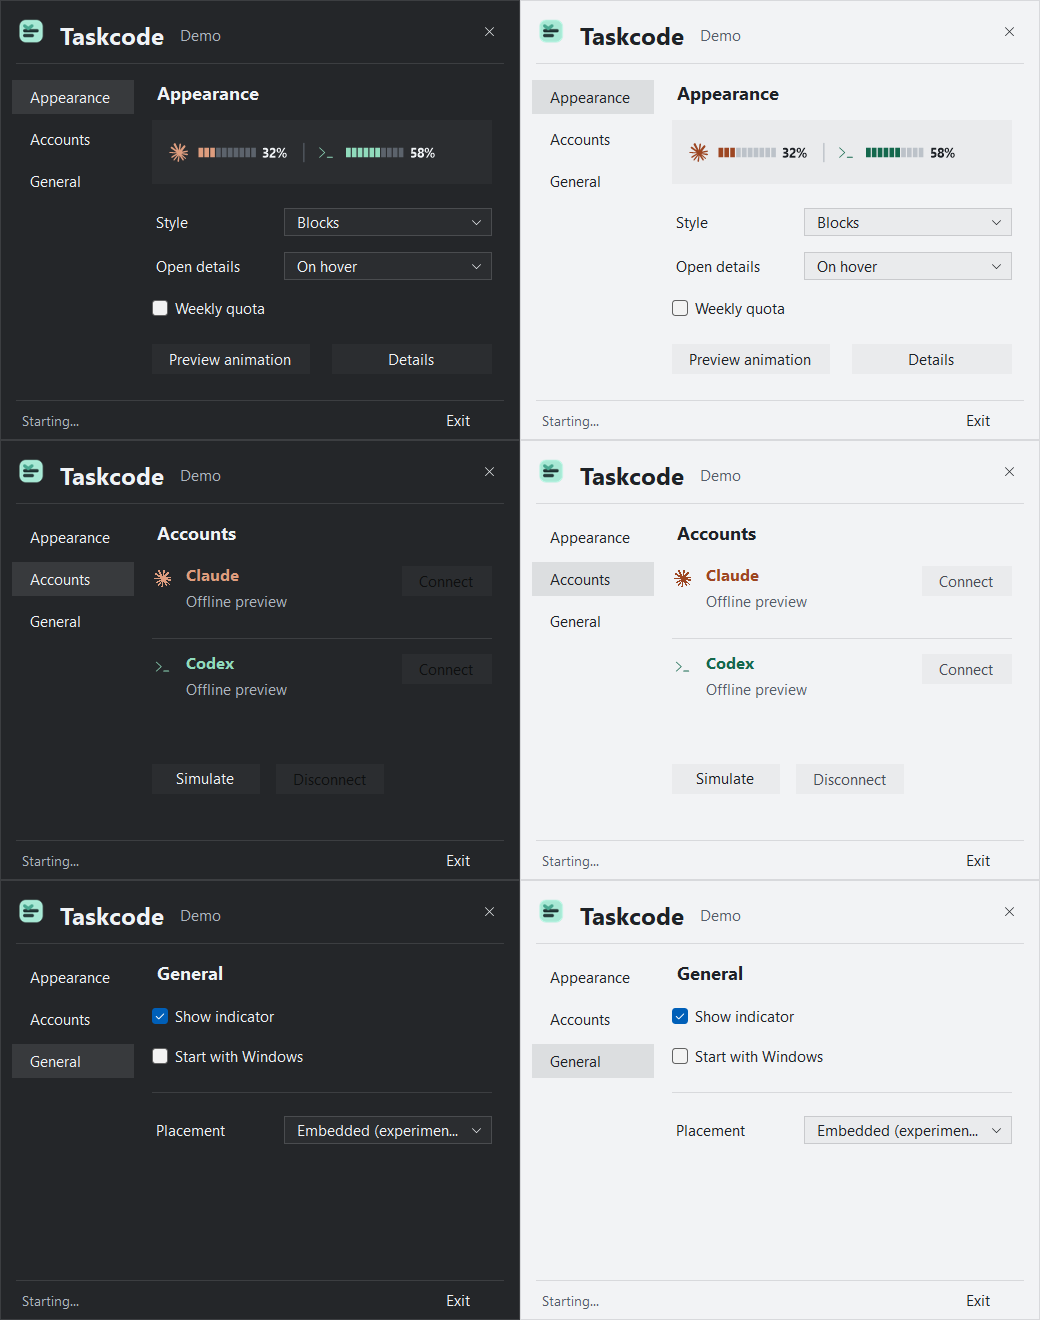
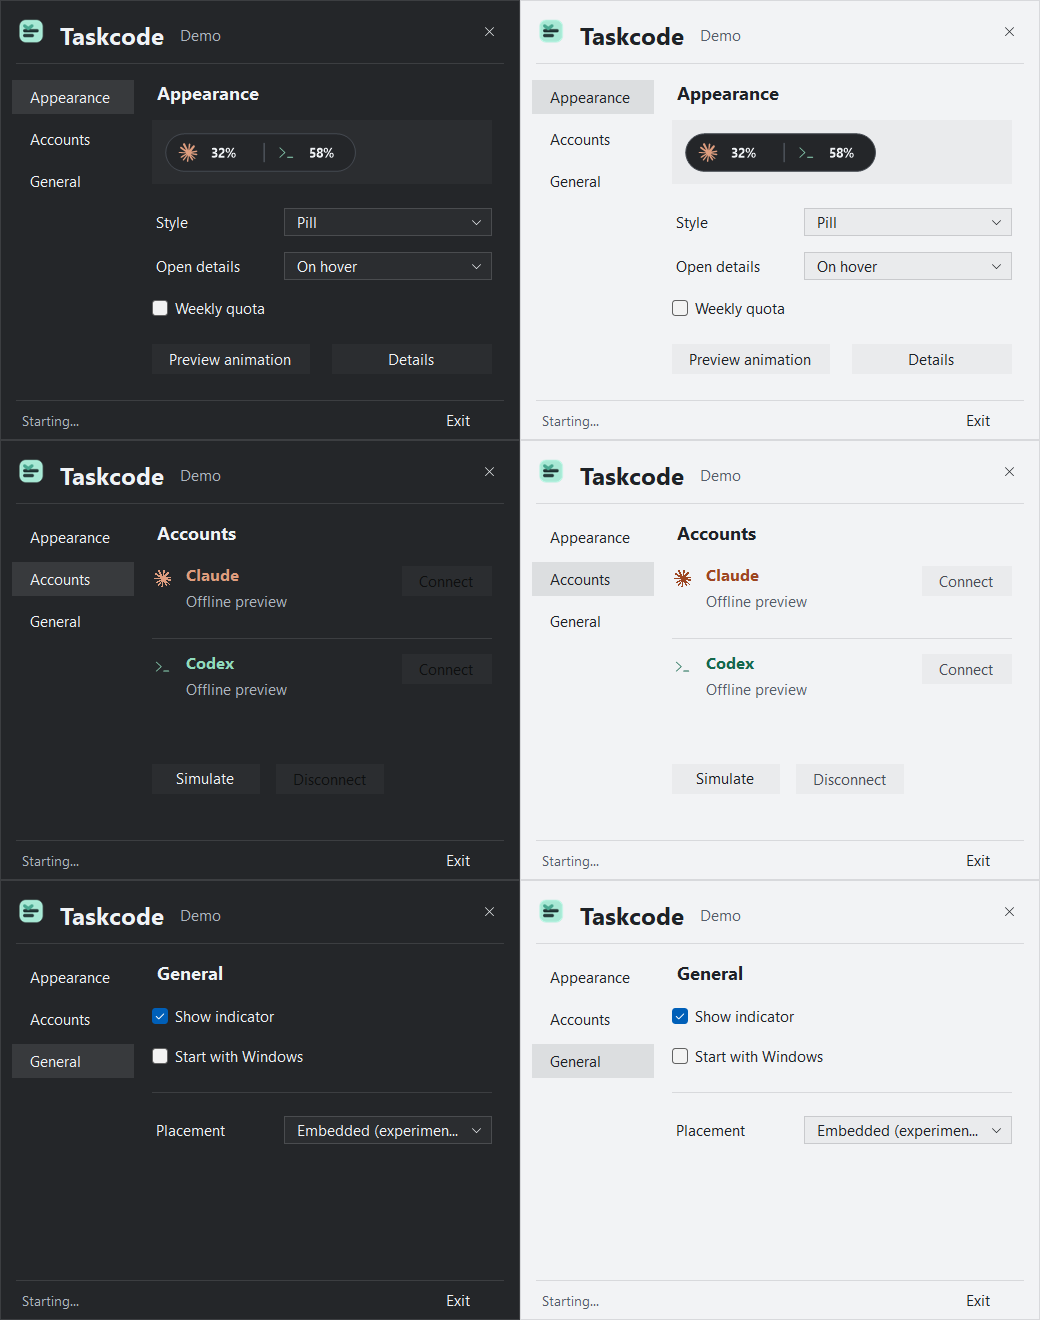
Balance Pill left padding around Claude symbol

diff --git a/src/Taskcode.Probe/Indicator.cs b/src/Taskcode.Probe/Indicator.cs
@@ -29,11 +29,12 @@ namespace Taskcode.Probe
             TabStop = true;
         }
         private const float IndicatorScale = 1.17f;
+        private const int PillLeftPadding = 8;
         private static bool Compact(IndicatorStyle style) { return style == IndicatorStyle.Essential || style == IndicatorStyle.Pill; }
         private static int ContentWidth(IndicatorStyle style, bool showWeekly)
         {
-            if (showWeekly) return Compact(style) ? 184 : 268;
-            return Compact(style) ? 156 : style == IndicatorStyle.Blocks ? 246 : 262;
+            int width = showWeekly ? (Compact(style) ? 184 : 268) : Compact(style) ? 156 : style == IndicatorStyle.Blocks ? 246 : 262;
+            return width + (style == IndicatorStyle.Pill ? PillLeftPadding : 0);
         }
         internal static int LogicalWidth(IndicatorStyle style, bool showWeekly = false) { return (int)Math.Ceiling(ContentWidth(style, showWeekly) * IndicatorScale); }
         internal static string AccessibleText(bool weekly)
@@ -43,7 +44,7 @@ namespace Taskcode.Probe
         }
         internal static int LogicalHeight { get { return (int)Math.Ceiling(34 * IndicatorScale); } }
         private static int SecondProviderX(IndicatorStyle style, bool weekly)
-        { return weekly ? (Compact(style) ? 132 : 172) : Compact(style) ? 120 : style == IndicatorStyle.Blocks ? 162 : 172; }
+        { return (weekly ? (Compact(style) ? 132 : 172) : Compact(style) ? 120 : style == IndicatorStyle.Blocks ? 162 : 172) + (style == IndicatorStyle.Pill ? PillLeftPadding : 0); }
         internal static Rectangle ProviderBounds(int provider, Size size, IndicatorStyle style, bool weekly)
         {
             if (provider < 0 || provider > 1 || size.Width <= 0 || size.Height <= 0) return Rectangle.Empty;
@@ -83,6 +84,7 @@ namespace Taskcode.Probe
                     g.FillPath(background, shape);
                     g.DrawPath(edge, shape);
                 }
+                g.TranslateTransform(PillLeftPadding, 0);
                 style = IndicatorStyle.Essential;
             }
             // Pixel units avoid applying the monitor's DPI twice when scaling.
